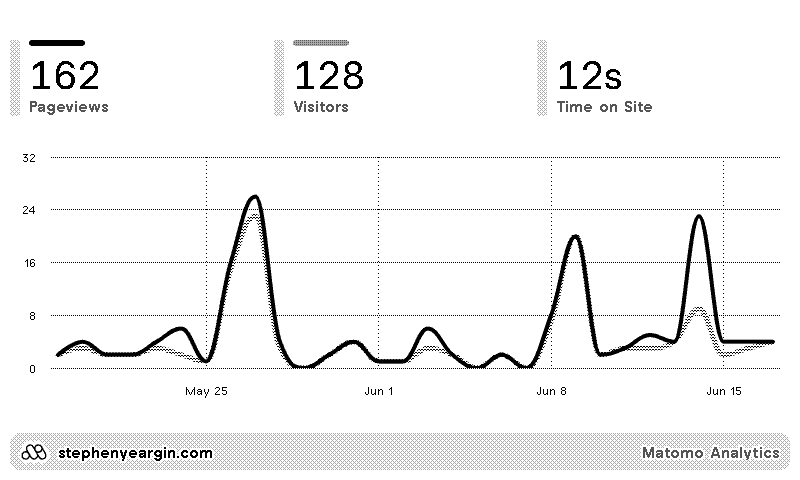
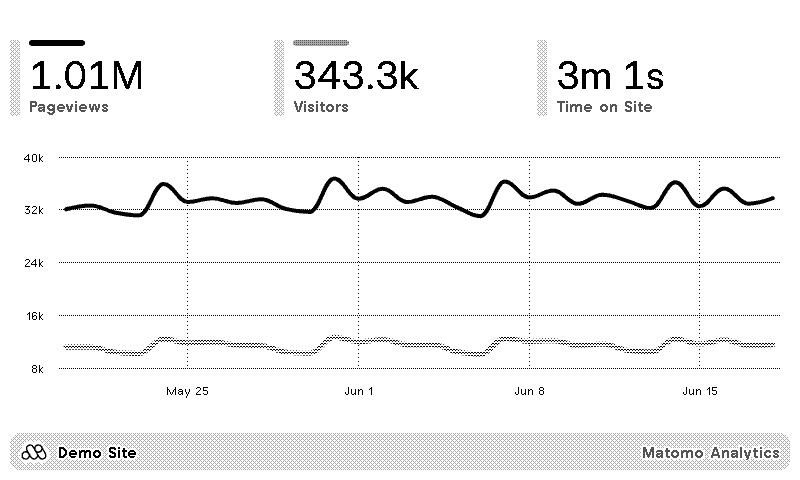
Update promo images

diff --git a/README.md b/README.md
@@ -10,6 +10,10 @@
 
 ![screenshot-2](assets/screenshot-2.png)
 
+![screenshot-3](assets/screenshot-3.png)
+
+![screenshot-4](assets/screenshot-4.png)
+
 ## Development
 
 ### Releasing